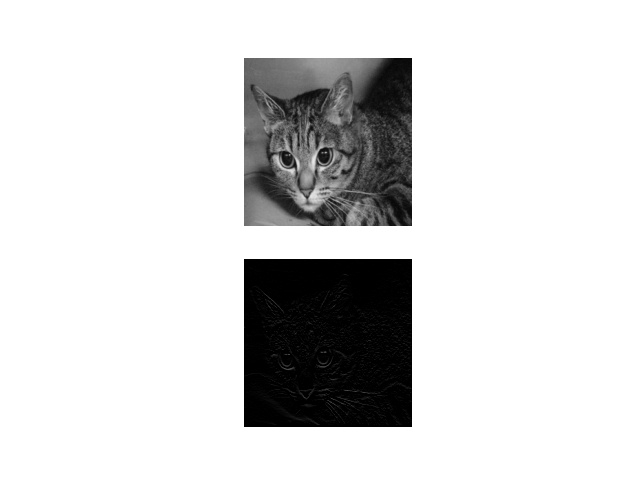
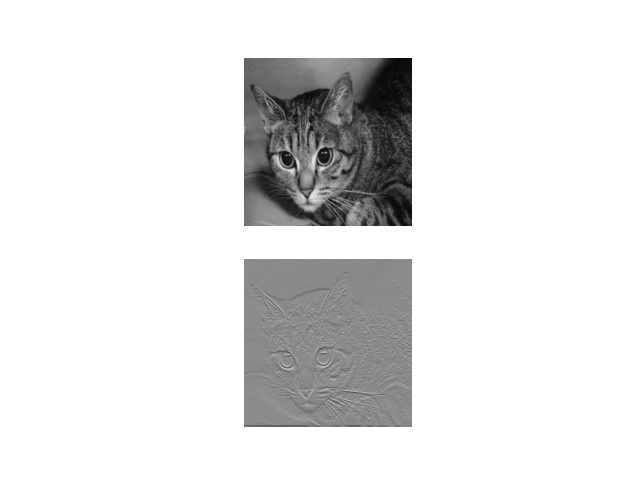
Final Ass2

Changed region(s): [[0.375, 0.5312, 0.6562, 0.9062]]

diff --git a/assgn2/q8.py b/assgn2/q8.py
@@ -64,16 +64,14 @@ def blurr_images(img_choice, option):
 
     B_matrices = get_blurring_matrices(option=option)
 
-    _, axarr = plt.subplots(2, len(B_matrices))
+    _, axarr = plt.subplots(1, len(B_matrices) + 1)
 
-    axarr = axarr.reshape((2, len(B_matrices)))
+    axarr[0].imshow(img, cmap='gray', vmin = 0, vmax = 255)
+    axarr[0].axis('off')
     for i, B in enumerate(B_matrices):
         blurred = convolve(B, C)
-        axarr[0, i].imshow(img, cmap='gray', vmin = 0, vmax = 255)
-        axarr[0, i].axis('off')
-
-        axarr[1, i].imshow(blurred, cmap='gray', vmin = 0, vmax = 255)
-        axarr[1, i].axis('off')
+        axarr[i + 1].imshow(blurred, cmap='gray')
+        axarr[i + 1].axis('off')
 
     print(f'Saving {img_choice}-{option}...')
     plt.savefig(f'{img_choice}-{option}.jpg')
